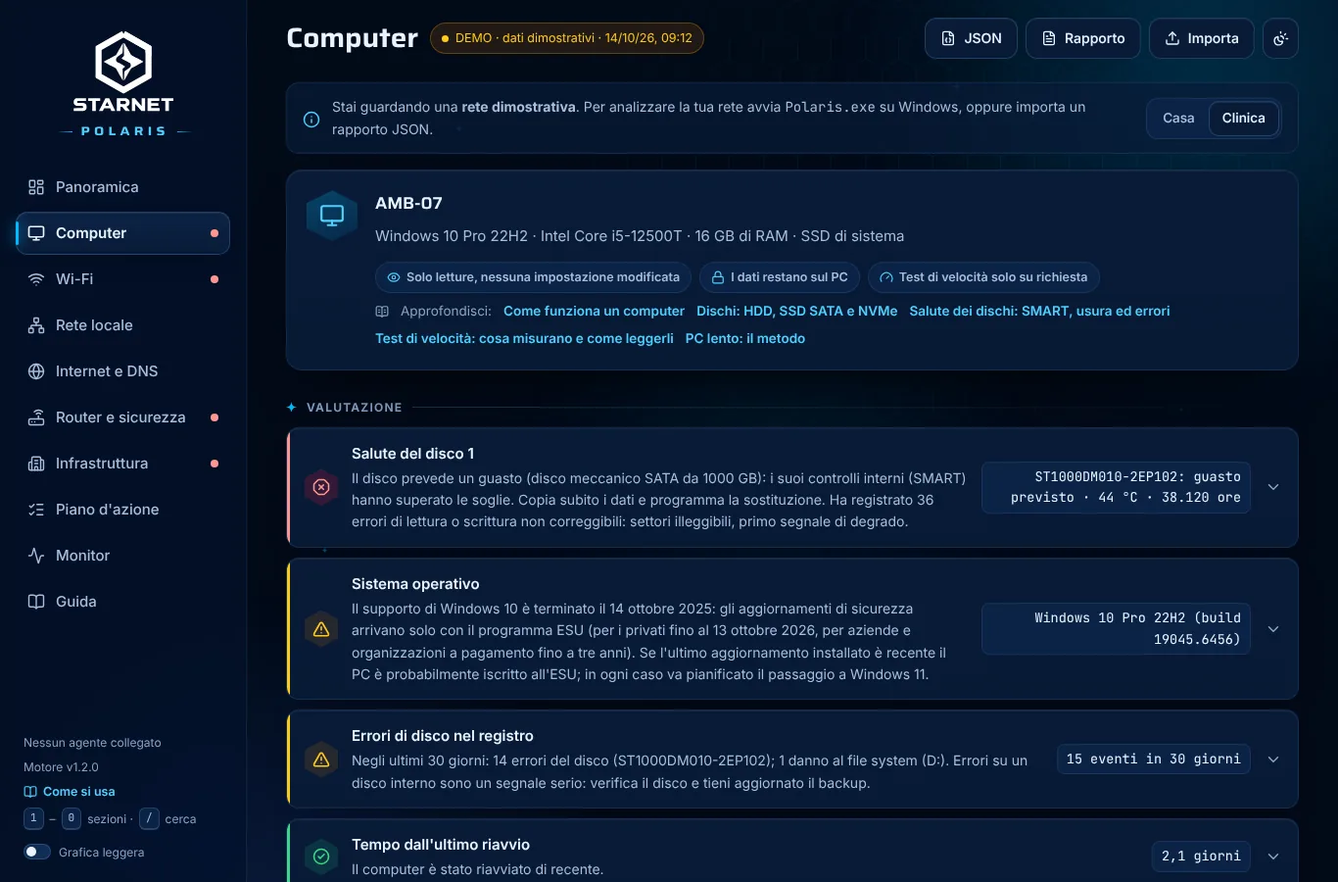
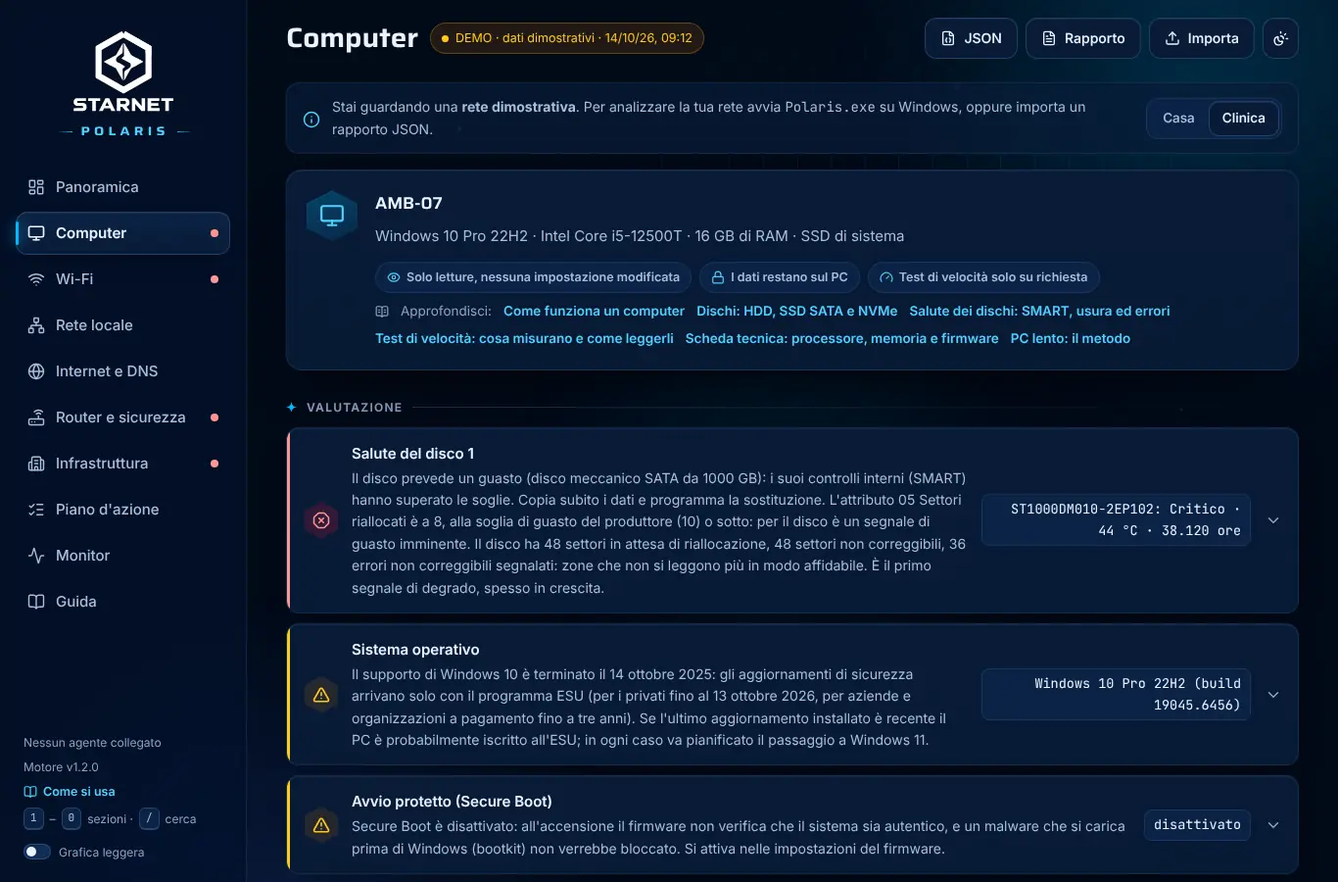
Documentazione e guide della versione 0.6.0
README, LEGGIMI del pacchetto e architettura descrivono SMART letto dal
disco, profilo di CrystalDiskMark, scheda tecnica, Microsoft Defender,
cassetta degli attrezzi e programmi inclusi, con le nuove API, il comando
polaris-cli defender e la build dei programmi inclusi (STRUMENTI=no per
farne a meno). Nuove immagini: dischi con SMART, test di velocità, scheda
tecnica, Antivirus e programmi inclusi.

Le guide d'uso spiegano scansioni di Defender, cassetta degli attrezzi e
programmi inclusi; la tabella della riga di comando ha i comandi defender.

VERIFICHE, sezione 10: test automatici, provenienza e integrità dei
programmi inclusi (dimensione e MD5 pubblicati da SourceForge, SHA-256,
firma di CrystalMark Inc. valida su Windows), accessibilità, prove sotto
Wine e su Windows reale in CI, difetti corretti e cosa resta da provare
su un PC fisico.

Claude-Session: https://claude.ai/code/session_01F7rChLFTzHGSKGbwjwYayv

Changed region(s): [[0.2152, 0.5289, 0.9839, 1.0], [0.5227, 0.3733, 0.8609, 0.4044]]

diff --git a/core/src/guides/uso.ts b/core/src/guides/uso.ts
@@ -54,7 +54,7 @@ export const uso: Guide[] = [
     blocks: [
       { t: 'table', head: ['Tasto', 'Sezione', 'Che cosa mostra', 'Quando usarla'], rows: [
         ['1', 'Panoramica', 'punteggio, aree, problemi principali, prime azioni', 'sempre, come punto di partenza'],
-        ['2', 'Computer', 'sistema, dischi e loro salute, spazio, test di velocità, avvio, processi, eventi', 'PC lento o instabile, dischi sospetti, controllo periodico'],
+        ['2', 'Computer', 'sistema, dischi con SMART, spazio, test di velocità, antivirus, avvio, processi, eventi, scheda tecnica, cassetta degli attrezzi', 'PC lento o instabile, dischi sospetti, controllo periodico'],
         ['3', 'Wi-Fi', 'segnale, canali, reti vicine, access point della tua rete', 'Wi-Fi lento, instabile o con poca copertura'],
         ['4', 'Rete locale', 'scheda di rete, indirizzi, router, dispositivi visti', 'problemi di collegamento o di indirizzi'],
         ['5', 'Internet e DNS', 'latenza, perdite, percorso, MTU, DNS, siti web', 'Internet lento, siti che non si aprono'],
@@ -112,15 +112,17 @@ export const uso: Guide[] = [
   {
     id: 'strumenti-avanzati',
     chapter: 'uso',
-    title: 'Strumenti avanzati: test, monitor e infrastruttura',
-    summary: 'Gli strumenti che partono solo su richiesta: test di velocità, monitor continuo, inventario della sottorete, verifiche di segmentazione e autovalutazione.',
+    title: 'Strumenti avanzati: test, antivirus, cassetta degli attrezzi, monitor e infrastruttura',
+    summary: 'Gli strumenti che partono solo su richiesta: test di velocità, scansioni di Microsoft Defender, cassetta degli attrezzi con CrystalDiskInfo e CrystalDiskMark inclusi, monitor continuo, inventario della sottorete, verifiche di segmentazione e autovalutazione.',
     level: 'intermedio',
-    tags: ['strumenti', 'test di velocità', 'benchmark', 'monitor', 'ping continuo', 'interruzioni', 'inventario', 'segmentazione', 'verifiche', 'autovalutazione', 'amministratore', 'autorizzazione'],
+    tags: ['strumenti', 'test di velocità', 'benchmark', 'monitor', 'ping continuo', 'interruzioni', 'inventario', 'segmentazione', 'verifiche', 'autovalutazione', 'amministratore', 'autorizzazione', 'defender', 'scansione', 'cassetta degli attrezzi', 'crystaldiskinfo', 'crystaldiskmark', 'programmi inclusi'],
     blocks: [
       { t: 'p', text: 'Oltre all\'analisi automatica, Polaris offre strumenti che generano più carico sul PC o più traffico in rete. Per questo partono solo quando li avvii, e alcuni chiedono una conferma esplicita.' },
       { t: 'table', head: ['Strumento', 'Dove', 'Che cosa fa', 'Conferma'], rows: [
         ['test del processore', 'Computer', 'circa 25 secondi di calcolo con un thread e con tutti', 'no'],
         ['test del disco', 'Computer', 'scrive e rilegge un file temporaneo fino a 1 GB, cancellato alla fine', 'sì'],
+        ['scansioni di Defender', 'Computer > Antivirus', 'scansione rapida o completa e aggiornamento delle firme, con lo strumento ufficiale di Microsoft', 'sì, per la scansione completa'],
+        ['cassetta degli attrezzi', 'Computer', 'apre strumenti di Windows, i programmi inclusi in Polaris e quelli già installati, o il loro sito ufficiale', 'no'],
         ['monitor', 'Monitor', 'un ping al secondo verso router e Internet, con interruzioni e picchi', 'no'],
         ['inventario', 'Infrastruttura', 'un ping a ogni indirizzo della sottorete, poi ARP e nomi', 'sì, autorizzazione ad analizzare la rete'],
         ['verifiche', 'Infrastruttura', 'controlla se servizi e zone che indichi rispondono o sono isolati', 'scegli tu gli indirizzi, solo privati'],
@@ -128,6 +130,11 @@ export const uso: Guide[] = [
       ] },
       { t: 'h', text: 'Test di velocità' },
       { t: 'p', text: 'Si avviano dalla sezione Computer; il risultato entra nel rapporto e nel piano d\'azione, e le prove precedenti restano sul PC per il confronto. Durante un test non parte una nuova analisi e viceversa, perché si falserebbero a vicenda. Un test si può sempre interrompere. Come leggerli: [[test-velocita]].' },
+      { t: 'h', text: 'Antivirus' },
+      { t: 'p', text: 'Se l\'antivirus del PC è Microsoft Defender, la scheda Antivirus mostra lo stato della protezione, le ultime scansioni e le minacce della cronologia, e avvia una scansione rapida, una completa (chiede conferma: può durare ore) o l\'aggiornamento delle firme. Una scansione si può interrompere; durante una scansione i test di velocità non partono, perché si falserebbero a vicenda. Come leggere i risultati: [[antivirus-defender]].' },
+      { t: 'h', text: 'Cassetta degli attrezzi' },
+      { t: 'p', text: 'In fondo alla sezione Computer ci sono gli strumenti di Windows più utili per la diagnosi (Gestione attività, Monitoraggio affidabilità, Visualizzatore eventi, Diagnostica memoria e altri) e i programmi gratuiti più noti, con che cosa fanno, la licenza e dove Polaris fa una cosa simile. **CrystalDiskInfo** e **CrystalDiskMark** sono inclusi nel pacchetto, nella cartella strumenti accanto a Polaris.exe: sono le copie originali del produttore (open source, licenza MIT) e si aprono con il pulsante Apri, senza installare nulla. CrystalDiskInfo chiede i permessi di amministratore. Prima di avviarli Polaris controlla che l\'eseguibile sia proprio quello originale: se il file è stato modificato o sostituito lo segnala e non lo avvia.' },
+      { t: 'p', text: 'Gli altri programmi (CPU-Z, HWiNFO, Malwarebytes e così via) non sono inclusi perché le loro licenze non lo permettono o non lo rendono opportuno: il pulsante Sito ufficiale apre la pagina del produttore, e quelli già installati Polaris li riconosce e li apre.' },
       { t: 'h', text: 'Monitor' },
       { t: 'p', text: 'Per i problemi che vanno e vengono: lascia il monitor attivo mentre lavori, poi guarda il grafico e l\'elenco degli eventi (interruzioni e picchi di latenza) ed esporta il CSV. Se le interruzioni riguardano solo Internet il problema è oltre il router; se riguardano anche il router, è nella rete locale o nel Wi-Fi (vedi [[latenza-perdite-jitter-banda]]).' },
       { t: 'h', text: 'Infrastruttura' },
@@ -139,7 +146,7 @@ export const uso: Guide[] = [
     id: 'riga-di-comando',
     chapter: 'uso',
     title: 'La riga di comando (polaris-cli)',
-    summary: 'I comandi di polaris-cli.exe per rapporti, interfaccia nel browser e test di velocità, con esempi per raccogliere rapporti da più PC.',
+    summary: 'I comandi di polaris-cli.exe per rapporti, interfaccia nel browser, test di velocità e Microsoft Defender, con esempi per raccogliere rapporti da più PC.',
     level: 'avanzato',
     tags: ['riga di comando', 'cli', 'polaris-cli', 'prompt dei comandi', 'powershell', 'report', 'json', 'serve', 'bench', 'script', 'automazione', 'utilità di pianificazione', 'codici di uscita'],
     blocks: [
@@ -155,6 +162,9 @@ export const uso: Guide[] = [
         ['`polaris-cli bench cpu`', 'test del processore (circa 25 secondi)'],
         ['`polaris-cli bench disk --drive X:`', 'test di un\'unità con il profilo di CrystalDiskMark (fino a 50 secondi), con file temporaneo cancellato alla fine'],
         ['`--json` e `--quick` con bench', 'risultato in JSON; versione breve del test'],
+        ['`polaris-cli defender status`', 'stato di Microsoft Defender e minacce della cronologia'],
+        ['`polaris-cli defender quick` / `full`', 'scansione rapida o completa (la completa può durare ore)'],
+        ['`polaris-cli defender update`', 'aggiornamento delle firme; con `--json` il risultato in JSON'],
         ['`polaris-cli version`', 'versione del programma, del motore e di WebView2'],
       ] },
       { t: 'code', caption: 'Esempi (Prompt dei comandi, nella cartella del programma)', text: 'polaris-cli report --quick\npolaris-cli report --verbose --out rapporto.txt\npolaris-cli report --json --out C:\\Rapporti\\%COMPUTERNAME%.json\npolaris-cli report --input C:\\Rapporti\\PC-07.json --verbose\npolaris-cli bench disk --drive D: --json' },
@@ -176,9 +186,9 @@ export const uso: Guide[] = [
     tags: ['domande frequenti', 'faq', 'sicurezza', 'privacy', 'modifiche', 'amministratore', 'speed test', 'velocità della linea', 'offline', 'antivirus', 'windows 10', 'più pc'],
     blocks: [
       { t: 'h', text: 'Polaris modifica qualcosa sul PC o sulla rete?' },
-      { t: 'p', text: 'No. Legge configurazioni e stati e misura la rete, senza cambiare impostazioni. Le uniche scritture sono il file temporaneo del test del disco, che parte solo con la tua conferma e viene cancellato, e le preferenze dell\'interfaccia (tema, guide lette, spunte del piano), salvate sul PC.' },
+      { t: 'p', text: 'No. Legge configurazioni e stati e misura la rete, senza cambiare impostazioni. Le uniche scritture sono il file temporaneo del test del disco, che parte solo con la tua conferma e viene cancellato, e le preferenze dell\'interfaccia (tema, guide lette, spunte del piano), salvate sul PC. Fanno qualcosa solo i comandi che avvii tu: le scansioni e l\'aggiornamento delle firme di Microsoft Defender e l\'apertura di strumenti e programmi dalla cassetta degli attrezzi.' },
       { t: 'h', text: 'Perché alcuni dati richiedono l\'amministratore?' },
-      { t: 'p', text: 'Windows fornisce i contatori di affidabilità dei dischi (temperatura, usura, errori) solo ai programmi avviati come amministratore. Senza, Polaris mostra comunque lo stato di salute dei dischi e tutto il resto.' },
+      { t: 'p', text: 'Windows fornisce i contatori di affidabilità dei dischi (temperatura, usura, errori), gli attributi SMART e il registro NVMe solo ai programmi avviati come amministratore. Senza, Polaris mostra comunque lo stato di salute dei dischi e tutto il resto.' },
       { t: 'h', text: 'Misura la velocità della mia linea Internet?' },
       { t: 'p', text: 'No: misura la qualità della connessione (latenza, perdite, stabilità, DNS, MTU, raggiungibilità dei siti), che spiega la maggior parte dei problemi percepiti come "Internet lento". Per la velocità di download e upload usa lo speed test del tuo operatore, possibilmente con il PC collegato via cavo.' },
       { t: 'h', text: 'Perché i valori sono diversi da quelli di altri programmi?' },

diff --git a/docs/VERIFICHE.md b/docs/VERIFICHE.md
@@ -1,7 +1,8 @@
 # Verifiche
 
-Cosa è stato verificato, come, e cosa resta da provare. Versione attuale: 0.4.0 (17 ottobre 2026), con le guide di rete e gli
-strumenti per le reti complesse e le strutture sanitarie (sezione 8). Fino alla versione 0.2.0 il programma si chiamava LANterna:
+Cosa è stato verificato, come, e cosa resta da provare. Versione attuale: 0.6.0 (19 ottobre 2026), con SMART completo, profilo di
+CrystalDiskMark, scheda tecnica, Microsoft Defender, cassetta degli attrezzi e CrystalDiskInfo e CrystalDiskMark inclusi nel
+pacchetto (sezione 10). Fino alla versione 0.2.0 il programma si chiamava LANterna:
 le sezioni che descrivono prove precedenti riportano i nomi di allora.
 
 ## 1. Test automatici
@@ -393,3 +394,126 @@ Microsoft e sono riportati come tali nelle guide. Dischi, eventi, antivirus e ag
 Wine non è disponibile: su Windows reale li ha verificati la CI, ma su una macchina virtuale, quindi senza contatori SMART né
 batteria. Su un PC fisico con dischi veri, batteria ed eventi reali restano da provare. La temperatura del processore non viene
 letta.
+
+## 10. Versione 0.6.0: SMART, CrystalDiskMark, scheda tecnica, Defender e programmi inclusi
+
+**Cosa è nuovo.**
+- **Agente.** In `pcinfo`:
+  - SMART letto direttamente dal disco (attributi ATA con soglie, registro di salute NVMe);
+  - scheda tecnica da API native e dallo script.
+- **Nuovi pacchetti dell'agente.**
+  - `defender`: stato, minacce, scansioni con `MpCmdRun`, API `/api/defender`, comando `polaris-cli defender`;
+  - `tools`: cassetta degli attrezzi, API `/api/tools` e `/api/open`.
+- **Test del disco.** Usa il profilo di CrystalDiskMark con I/O sovrapposto.
+- **Motore 1.2.0.** Sette metriche nuove (canali e velocità della memoria, Secure Boot, TPM, requisiti di Windows 11, minacce,
+  protezione di Defender) e quattro azioni.
+- **Interfaccia.** Tabella SMART e registro NVMe, griglia di CrystalDiskMark, schede Scheda tecnica, Antivirus e Cassetta degli
+  attrezzi.
+- **Guide.** 66 guide e 188 voci di glossario.
+- **Pacchetto.** Contiene CrystalDiskInfo 9.9.2 e CrystalDiskMark 9.0.3 nella cartella `strumenti`.
+
+**Test automatici.**
+
+| Insieme | Esito |
+| --- | --- |
+| Motore, guide e catalogo (vitest) | 166 test superati, 84 dei quali sul computer: regole di stato SMART (attributo guasto alla soglia, attributi di attenzione 05, C5, C6, BB, bit di avviso NVMe), errori non correggibili non contati due volte, profilo del disco, memoria e canali, Secure Boot, TPM, Windows 11, minacce e protezione di Defender; il catalogo della cassetta, compresi i programmi inclusi |
+| Agente (Go, anche con `-race`) | 116 test superati, tra cui: ATA pass-through e attributi costruiti byte per byte, registro NVMe; profondità di coda reale e interruzione del test del disco; topologia del processore e cache; interpretazione di stato e minacce di Defender ed esclusione reciproca con i test; lista bianca degli strumenti, rilevamento dei programmi installati, programmi inclusi (copia integra, alterata, mancante, architettura senza eseguibile), precedenza della copia verificata; API con codici `404`, `400`, `422` e `409` |
+| Coerenza tra le parti | un test dell'agente confronta catalogo, siti e versioni incluse con `core/src/tools.ts`, `scripts/strumenti.sh` e `scripts/notices.sh` |
+| Motore in goja | rapporto con SMART, scheda tecnica e Defender |
+| `GOOS=windows go vet`, `gofmt`, `tsc` | nessun problema |
+
+**Programmi inclusi: provenienza e integrità.**
+- **Fonte.** Il sito ufficiale crystalmark.info rimanda alla pagina SourceForge del produttore.
+- **Versioni.** Pubblicate da almeno 14 giorni: CrystalDiskInfo 9.9.2 del 25/07/2026 (la 9.9.3 aveva 8 giorni) e
+  CrystalDiskMark 9.0.3 del 23/05/2026.
+- **Download.** Il primo tentativo è stato rifiutato da un mirror di SourceForge (risposta `403`, non dal proxy dell'ambiente).
+  Il secondo, servito da un altro mirror, è riuscito.
+- **Dimensione e MD5.** Coincidono con quelli pubblicati da SourceForge per gli stessi file (8.533.389 byte, MD5
+  `f27564837d3a4c77813bc69769bacf5c`; 3.725.706 byte, MD5 `b93d7c56381d0d765a3fc8238da611f0`). L'impronta SHA-256 degli
+  archivi è fissata in `scripts/strumenti.sh`.
+- **Estrazione.** Dopo l'estrazione i 642 + 242 file sono identici byte per byte a quelli degli archivi, senza file in più.
+- **Firma digitale.**
+  - Gli eseguibili contengono una firma Authenticode EV emessa da GlobalSign a CrystalMark Inc.: il soggetto è stato letto con
+    OpenSSL.
+  - Su Windows reale `Get-AuthenticodeSignature` la dà **Valid**.
+- **Licenze lette** nell'archivio:
+  - MIT per i due programmi e per PolyHook 2.0, win32-darkmode, menubar theme, NVMeInterpreter, SlotSpeedGetter, MailKit,
+    MimeKit e DiskSpd;
+  - BSD per opus-tools;
+  - GCC Runtime Library Exception per libgcc;
+  - licenza propria per la libreria AMD_RC2t7, le cui impronte coincidono con quelle dichiarate nel suo file.
+- **CPU-Z.** La pagina ufficiale lo dichiara solo "freeware" e non ne concede la ridistribuzione: resta un collegamento.
+
+**Interfaccia**, Chromium 141 sulla build di produzione:
+- **axe-core** (WCAG 2.1 A/AA e buone pratiche): 0 violazioni.
+  - 10 sezioni × 2 temi × desktop e telefono, reti Casa e Clinica.
+  - Sezione Computer con un agente simulato (API intercettate) che riporta una copia inclusa, una alterata e un programma
+    installato, in 4 combinazioni di tema e schermo.
+- **A 390 px** nessuno scorrimento orizzontale; la tabella SMART diventa un elenco.
+- **Immagini aggiornate:** dischi con SMART, test di velocità, scheda tecnica, Antivirus e programmi inclusi.
+
+**Exe 0.6.0 sotto Wine 9.0:**
+- **Prove precedenti di questa versione:**
+  - test del disco con I/O sovrapposto completato, file di prova cancellato;
+  - scheda tecnica letta dalle API native;
+  - API di Defender e degli strumenti con i codici attesi.
+- **Programmi inclusi**, su una copia del pacchetto. Nessun programma è stato avviato sotto Wine.
+  - `/api/tools` riconosce CrystalDiskInfo 9.9.2 e CrystalDiskMark 9.0.3, senza percorsi.
+  - Dopo l'aggiunta di un byte a `DiskMark64.exe` la copia risulta alterata e `/api/open` risponde `422` con il messaggio.
+  - CPU-Z non installato: `422`. Un percorso al posto dell'identificativo: `404`.
+- **Interfaccia servita dall'exe:**
+  - badge "Incluso in Polaris" e pulsanti Apri;
+  - avviso sulla copia alterata, poi scomparso dopo il ripristino del file;
+  - scorciatoie nelle schede Dischi e Test di velocità;
+  - nessun errore della pagina, anche a 390 px.
+
+**Difetti trovati e corretti durante il lavoro:**
+1. La tabella SMART era troppo larga sui telefoni ed ereditava le maiuscole delle intestazioni: ora compatta e, sugli schermi
+   stretti, a elenco.
+2. Gli errori non correggibili comparivano due volte, dai contatori di Windows e dagli attributi 187/198.
+3. Una regola CSS per il telefono era scritta prima di quella generale e non aveva effetto.
+4. L'avanzamento dell'inventario di rete poteva fermarsi a 5 su 6: due goroutine riferivano in ordine inverso.
+5. Le dimensioni da 10 TB in su avevano troppi decimali.
+6. Nel collaudo in CI `@($null).Count` vale 1 in PowerShell e falsava il numero di attributi SMART stampato.
+
+**Windows reale (CI).** Run 39180459370 sul commit `1eceb50`: tutti i passi verdi su Windows Server 2025 Datacenter 24H2 (build
+26100.33438), eseguito come amministratore. Verdi anche i run dei commit precedenti: SMART, profilo di CrystalDiskMark, scheda
+tecnica, Defender, cassetta degli attrezzi.
+- **Scheda tecnica.**
+  - Macchina virtuale Hyper-V, firmware UEFI, Secure Boot disattivato, nessun TPM.
+  - Processore AMD famiglia 25 modello 1, con cache L1/L2/L3 e istruzioni fino ad AVX2.
+  - Due moduli di memoria virtuali senza velocità dichiarata.
+- **SMART.** I dischi virtuali non forniscono attributi: è il comportamento atteso, e compare la spiegazione.
+- **Test del disco breve.**
+
+  | Profilo | Lettura MB/s | Scrittura MB/s |
+  | --- | --- | --- |
+  | SEQ1M Q8T1 | 527,4 | 178,2 |
+  | SEQ1M Q1T1 | 406,3 | 176,1 |
+  | RND4K Q32T1 | 21,3 (5.208 IOPS) | 2,5 (609 IOPS) |
+  | RND4K Q1T1 | 19,4 (4.728 IOPS) | 2,7 (653 IOPS) |
+
+  Nessun file di prova rimasto.
+- **Microsoft Defender.**
+  - Modalità normale, protezione in tempo reale e da manomissioni disattivate sul runner.
+  - Firme 1.461.96.0 di giornata, cronologia vuota.
+  - Via API: azione non valida `400`; scansione rapida avviata, test di velocità rifiutato durante la scansione, interruzione
+    riuscita.
+  - Da riga di comando: scansione rapida completata in 41 s, nessuna nuova minaccia.
+- **Programmi inclusi.**
+  - Firma **Valid** di CN=CrystalMark Inc. per i due eseguibili.
+  - `/api/tools` con le versioni 9.9.2 e 9.0.3.
+  - `/api/open` ha avviato `DiskMark64.exe` e `DiskInfo64.exe` dalle loro cartelle (poi chiusi).
+  - Con un byte aggiunto a `DiskMark64.exe` la copia è segnalata come alterata, `/api/open` risponde `422` e il programma non
+    parte.
+- **Finestra WebView2.** Titolo "STARNET Polaris", 6 processi `msedgewebview2`.
+
+**Avvertenze.**
+- **Dischi fisici.** SMART e registro NVMe sono verificati con strutture costruite byte per byte e sui dischi virtuali della CI,
+  che non hanno attributi: su un PC fisico con dischi SATA e NVMe veri restano da provare.
+- **Scheda tecnica.** Core P ed E, moduli di memoria reali e TPM vanno provati su hardware vero.
+- **Minacce di Defender.** Le minacce della cronologia sono verificate solo con i test: il runner non ne aveva.
+- **Permessi di amministratore.** In CI i programmi inclusi sono partiti senza richiesta, perché il runner è già amministratore.
+  Su un PC normale CrystalDiskInfo chiede i permessi; il messaggio per una richiesta annullata è verificato solo con i test.
+- **Licenze.** Le condizioni sono riportate come lette nei testi originali. Non sono una consulenza legale: in particolare la
+  clausola sulla vendita della libreria AMD_RC2t7 va verificata se Polaris venisse distribuito a pagamento.

diff --git a/docs/ARCHITETTURA.md b/docs/ARCHITETTURA.md
@@ -32,6 +32,8 @@ nome, che non compare più all'utente.
    │   infra/   inventario e verifiche su richiesta, ritmo prudente          │
    │   pcinfo/  dati del computer: API native + uno script PowerShell        │
    │   bench/   test di velocità di processore e dischi, su richiesta        │
+   │   defender/ Microsoft Defender: stato, minacce, scansioni a richiesta   │
+   │   tools/   cassetta degli attrezzi e programmi inclusi, lista bianca    │
    │   collect/ orchestrazione parallela con avanzamento reale               │
    │   server/  API locale + interfaccia incorporata                         │
    └──────────────────────────────────────────────────────────────────────────┘
@@ -157,10 +159,14 @@ rispettati. Le scelte sono state verificate con axe-core: [VERIFICHE.md](VERIFIC
 | Computer: volumi | `GetLogicalDriveStrings`, `GetDriveType`, `GetDiskFreeSpaceEx`, `GetVolumeInformation` | solo dischi locali e rimovibili: niente unità di rete o CD |
 | Computer: avvio e processi | chiavi `Run` (utente, computer, 32 bit), cartelle di esecuzione automatica, `StartupApproved`; Toolhelp32 + `GetProcessTimes` + `K32GetProcessMemoryInfo` su 1,5 s a fine analisi | cartella dell'utente sostituita da `%USERPROFILE%`; processi raggruppati per nome |
 | Computer: dischi, eventi, sicurezza | un solo script PowerShell nascosto con uscita JSON: `Get-PhysicalDisk`, `Get-Partition`, `Get-StorageReliabilityCounter` (da amministratore), classi batteria di `root/wmi`, `Get-WinEvent` (livelli 1-3, 30 giorni, 14 codici), `root/SecurityCenter2` con riserva `Get-MpComputerStatus`, `Get-HotFix`, `Win32_Processor`, `Win32_VideoController` | ogni sezione protetta da `try`; timeout di 40 s; niente numeri di serie |
+| Computer: SMART (da amministratore) | apertura del disco fisico in sola lettura, in parallelo allo script; `IOCTL_STORAGE_QUERY_PROPERTY` per il tipo di bus e, sugli NVMe, per il registro di salute (log 02h); sui SATA `IOCTL_ATA_PASS_THROUGH` (comandi SMART READ DATA e READ THRESHOLDS) con riserva `SMART_RCV_DRIVE_DATA` | stato Buono/Attenzione/Critico con le regole di CrystalDiskInfo: attributo guasto se l'attuale scende alla soglia; 05, C5, C6 e BB non nulli danno "Attenzione"; bit di avviso critico NVMe |
+| Computer: scheda tecnica | `GetLogicalProcessorInformationEx` (core per classe di efficienza, cache per livello e tipo), istruzioni lette con CPUID, `GetFirmwareType`, Secure Boot dal registro, memoria video dal registro (`qwMemorySize`); nello script `Win32_ComputerSystem`, `Win32_BaseBoard`, `Win32_BIOS`, `Win32_PhysicalMemory`, `Win32_PhysicalMemoryArray`, TPM da `Win32_PnPEntity` | sola lettura; niente numeri di serie |
+| Microsoft Defender | `Get-MpComputerStatus`, `Get-MpThreat` e `Get-MpThreatDetection` nello script; su richiesta `MpCmdRun.exe -Scan -ScanType 1\|2`, `-SignatureUpdate`, `-Scan -Cancel`, poi nuova lettura di stato e minacce | delle minacce solo nome, gravità, stato e date: niente percorsi dei file né nomi utente; non si sovrappone ai test di velocità |
+| Cassetta degli attrezzi | `ShellExecute` di una voce della lista bianca (comando di Windows, indirizzo `ms-settings:`, programma trovato tra le voci di disinstallazione con un eseguibile ammesso, programma incluso, sito https del produttore) | da amministratore i siti si aprono tramite Esplora risorse, con i permessi normali; i programmi inclusi in `strumenti/` partono solo se l'eseguibile ha l'impronta SHA-256 scritta nell'agente |
 | Test del processore (su richiesta) | `compress/flate` su un testo sintetico deterministico: 3 s con un thread, 20 s con tutti, campioni al secondo | punta = migliore media su 3 s nella prima metà; finale = media dell'ultimo quarto |
-| Test del disco (su richiesta) | `CreateFile` con `FILE_FLAG_NO_BUFFERING` e `FILE_FLAG_DELETE_ON_CLOSE`, `ReadFile`/`WriteFile` posizionati con `OVERLAPPED` su handle sincrono, `FlushFileBuffers` nel tempo; 1 MiB in sequenza, 4 KiB casuali QD1 | file fino a 1 GiB, almeno 2 GiB lasciati liberi, durata massima per fase, buffer allineati a 4 KiB e dati non comprimibili |
+| Test del disco (su richiesta) | `CreateFile` con `FILE_FLAG_NO_BUFFERING`, `FILE_FLAG_DELETE_ON_CLOSE` e `FILE_FLAG_OVERLAPPED`; ogni richiesta in coda è una goroutine con la sua `OVERLAPPED` e il suo evento (`GetOverlappedResult`); profilo di CrystalDiskMark: SEQ1M Q8T1, SEQ1M Q1T1, RND4K Q32T1, RND4K Q1T1, 4 s per misura | file fino a 1 GiB (o ciò che si scrive in 15 s), almeno 2 GiB lasciati liberi, buffer allineati a 4 KiB e dati non comprimibili |
 
-Modalità del programma: `Polaris.exe` (finestra), `report`, `serve`, `bench cpu` e `bench disk`. La finestra usa WebView2; se il runtime manca (o non
+Modalità del programma: `Polaris.exe` (finestra), `report`, `serve`, `bench cpu`, `bench disk` e `defender status|quick|full|update`. La finestra usa WebView2; se il runtime manca (o non
 funziona) STARNET Polaris lo dice con un messaggio e apre l'interfaccia nel browser predefinito. `Polaris.exe` è compilato come
 applicazione grafica e si aggancia alla console del prompt quando riceve un comando; `polaris-cli.exe` è la stessa cosa compilata
 per la console, comoda negli script.
@@ -181,11 +187,17 @@ per la console, comoda negli script.
 | `POST /api/bench` | corpo `{"kind": "cpu"}` oppure `{"kind": "disk", "drive": "C:", "confirm": true}`: `202` avvia il test; `400` senza conferma o con unità non valida, `422` se l'unità non è un disco locale o rimovibile, `409` se c'è un test o un'analisi in corso |
 | `GET /api/bench` | test in corso con fase e avanzamento (campioni al secondo per il processore), eventuale errore e ultimi risultati |
 | `DELETE /api/bench` | interrompe il test in corso; il file temporaneo del test del disco viene cancellato |
+| `POST /api/defender` | corpo `{"action": "quick"\|"full"\|"update"}`: `202` avvia l'operazione; `400` per un'azione non valida, `422` se Defender non è disponibile, `409` se c'è già un'operazione o un test di velocità in corso |
+| `GET /api/defender` | operazione in corso, eventuale errore ed esito dell'ultima (con stato e minacce riletti) |
+| `DELETE /api/defender` | interrompe la scansione in corso |
+| `GET /api/tools` | programmi della cassetta installati (`installed`) e inclusi nel pacchetto (`bundled`, con `problem` se l'eseguibile non è l'originale), con le versioni e senza percorsi |
+| `POST /api/open` | corpo `{"tool": "<id>", "target": "app"\|"site"}`: apre uno strumento di Windows, un programma (la copia inclusa se integra, altrimenti quella installata) o il sito ufficiale; `404` per un identificativo fuori dalla lista bianca, `400` per una destinazione non valida, `422` se il programma non c'è o la copia inclusa è alterata, `409` se la richiesta dei permessi di amministratore viene annullata |
 
 Sicurezza: ascolto solo su `127.0.0.1`; richieste con `Host` diverso da localhost rifiutate (DNS rebinding); `POST` con `Origin`
 estranea o `Sec-Fetch-Site: cross-site` rifiutate (CSRF); i `POST` di inventario e verifiche accettano solo corpi
 `application/json` fino a 64 kB, che una pagina di un altro sito non può inviare senza un preflight CORS (lo stesso vale per i
-test di velocità, e `DELETE` richiede comunque un preflight); CSP restrittiva
+test di velocità, Defender e l'apertura degli strumenti, e `DELETE` richiede comunque un preflight); `/api/open` riceve solo
+identificativi, mai percorsi o comandi; CSP restrittiva
 sull'interfaccia; nessuna intestazione CORS. ESP32 ed
 eventuali altri agenti esporranno la stessa API, quindi l'interfaccia non cambia.
 
